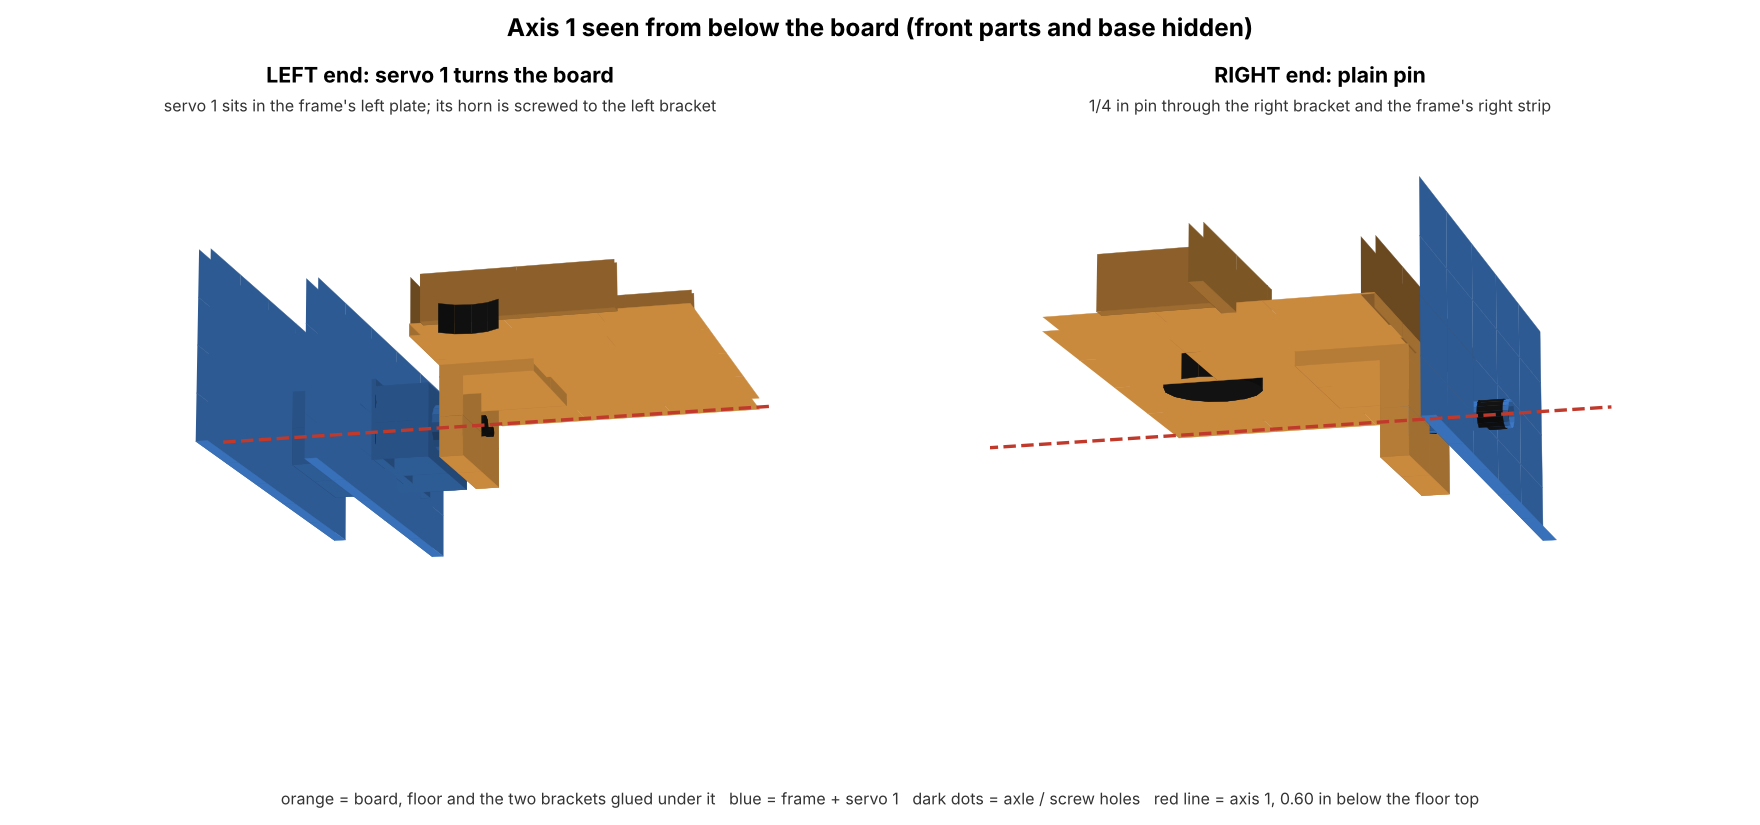
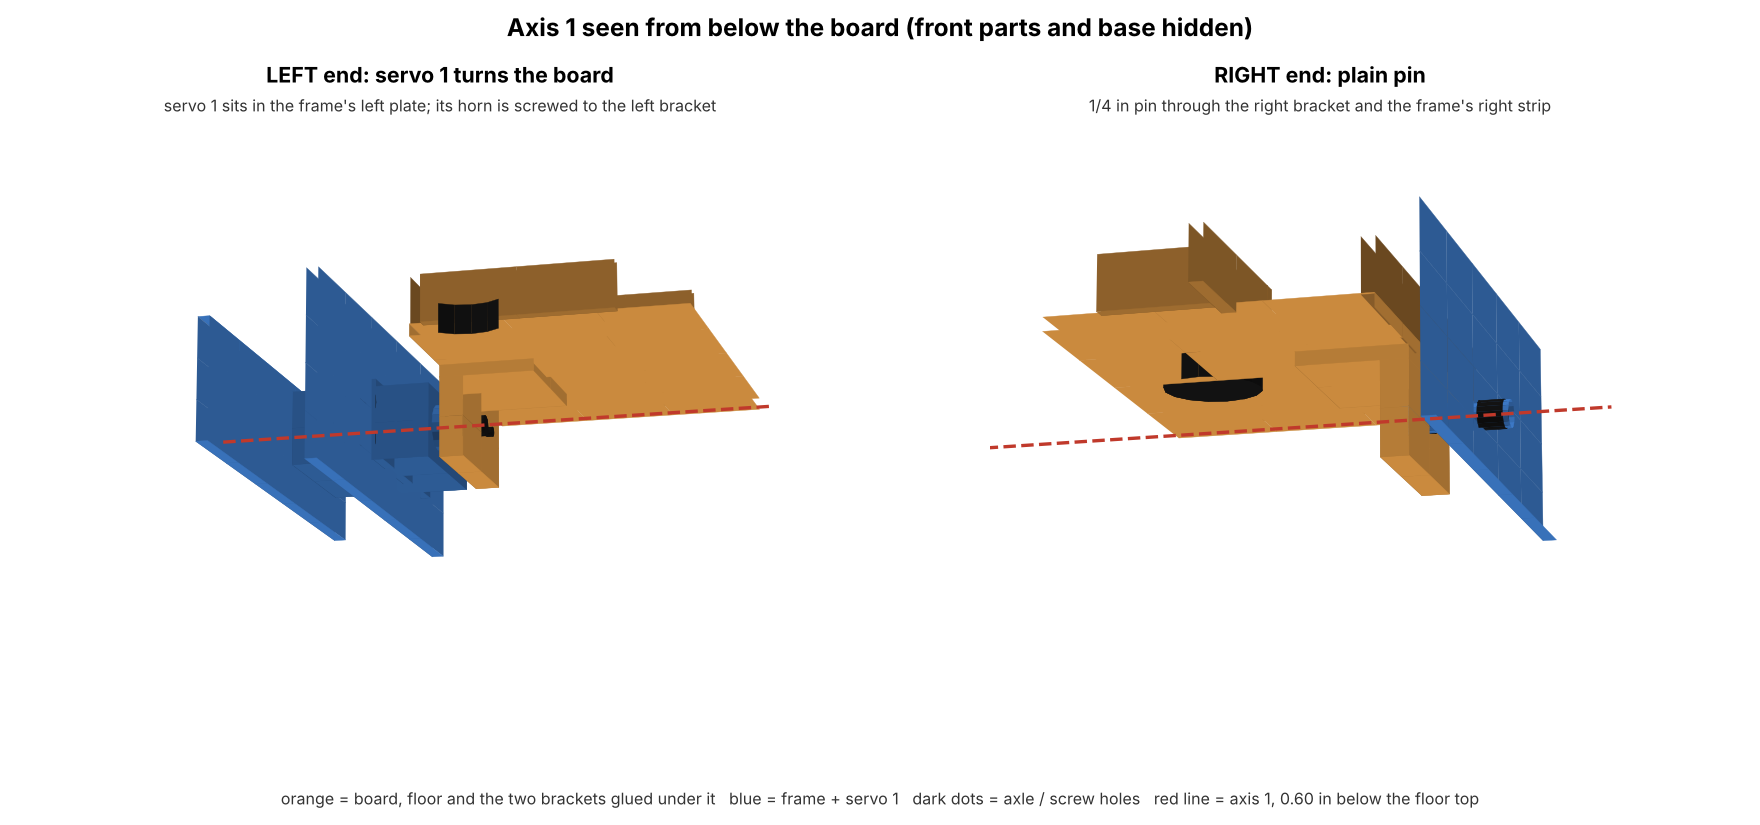
Frame level with the rim, low servo bay, AutoCAD tilt animation
The blue frame's top is now level with the board's 2 in rim; only the
servo bay on the left stays low, just above servo 1. Horns get their own
layers. The model script now checks how far the board can tip on axis 1
before touching the frame (16.3 deg, game uses 6) and writes
Labyrinth_animate.lsp: TILTDEMO rotates the board and frame in AutoCAD
servo by servo and returns to level.

Claude-Session: https://claude.ai/code/session_01KKucFUqdi832ws9qKueR3o

diff --git a/Labyrinth/make_autocad_script.py b/Labyrinth/make_autocad_script.py
@@ -48,8 +48,9 @@ HORN_SCREW_R, HORN_SCREW_DX, HORN_HUB_R = 0.05, 0.3, 0.1
 WINDOW_CLEAR = 0.01           # servo cutout is this much bigger all round
 
 FR_GAP = 0.5                  # gap between board and frame (3 sides)
-FR_Z0, FR_Z1 = -1.2, 1.8      # frame strips: 1/8 thick, 3 in tall
+FR_Z0, FR_Z1 = -1.2, ml.RIM_H # frame strips: top level with the board's rim
 BAY_CLEAR = 0.25              # servo bay: room behind servo 1's body
+BAY_Z1 = AXIS_Z + SERVO_W / 2 + 0.3   # servo bay walls stop just above it
 LP_Z0 = -1.45                 # the frame's left plate goes a bit lower
 # brackets under the floor for axis 1 (left: servo horn, right: pin)
 BRK_W, BRK_T, BRK_Z0 = 1.5, 0.25, -1.1   # drop plate: width, thick, bottom
@@ -122,7 +123,7 @@ class Model:
 
 
 # -------------------------------------------------------------- the servo
-def servo(m, to_world, layer, color):
+def servo(m, to_world, layer, color, horn_layer):
     """Servo body, mounting tabs, output boss and round horn."""
     x0, x1 = -SHAFT_FROM_END, SERVO_LEN - SHAFT_FROM_END
     xm, hy = (x0 + x1) / 2, SERVO_W / 2
@@ -131,7 +132,7 @@ def servo(m, to_world, layer, color):
     m.box(*to_world(xm - SERVO_TAB_SPAN / 2, -hy, TAB_Z),
           *to_world(xm + SERVO_TAB_SPAN / 2, hy, -SERVO_TAB_FROM_TOP))
     m.cyl(to_world(0, 0, 0), to_world(0, 0, BOSS_H), BOSS_R)
-    m.use("HORNS", 9)
+    m.use(horn_layer, 9)
     m.cyl(to_world(0, 0, BOSS_H), to_world(0, 0, BOSS_H + HORN_T), HORN_R)
 
 
@@ -226,10 +227,10 @@ def build():
                [lambda: m.cyl((fi1 - 0.05, C, AXIS_Z), (fx1 + 0.05, C, AXIS_Z),
                               PIN_HOLE_R)])
     m.cut_part("FRAME-FRONT", 150,
-               lambda: m.box(fx0, fy0, FR_Z0, fx1, fi0, FR_Z1),
+               lambda: m.box(lp0, fy0, FR_Z0, fx1, fi0, FR_Z1),
                horn_hole_cuts(m, "y", fy0 - 0.05, fi0 + 0.05, C))
     m.cut_part("FRAME-BACK", 150,
-               lambda: m.box(fx0, fi1, FR_Z0, fx1, fy1, FR_Z1),
+               lambda: m.box(lp0, fi1, FR_Z0, fx1, fy1, FR_Z1),
                [lambda: m.cyl((C, fi1 - 0.05, AXIS_Z), (C, fy1 + 0.05, AXIS_Z),
                               PIN_HOLE_R)])
 
@@ -247,8 +248,10 @@ def build():
 
     # ---- parts without holes
     m.lines += ["-LAYER", "T", "*", ""]
-    m.use("FRAME-BAY", 150)                        # outer wall of servo bay
-    m.box(bay0, fi0, FR_Z0, bay1, fi1, FR_Z1)
+    m.use("FRAME-BAY", 150)                        # low servo bay, left
+    m.box(bay0, fi0, FR_Z0, bay1, fi1, BAY_Z1)     # outer wall
+    m.box(bay0, fy0, FR_Z0, lp0, fi0, BAY_Z1)      # front side
+    m.box(bay0, fi1, FR_Z0, lp0, fy1, BAY_Z1)      # back side
     for name in ("RIM-FRONT", "RIM-BACK", "RIM-LEFT", "RIM-RIGHT"):
         m.use(name, 22)
         m.box(*rim[name][:2], 0, *rim[name][2:], ml.RIM_H)
@@ -269,8 +272,8 @@ def build():
     m.cyl((B - BRK_T, C, AXIS_Z), (fx1 + 0.1, C, AXIS_Z), PIN_R)
     m.use("PIN-AXIS2", 5)
     m.cyl((C, fi1, AXIS_Z), (C, pb1 + 0.1, AXIS_Z), PIN_R)
-    servo(m, s1, "SERVO-1", 240)
-    servo(m, s2, "SERVO-2", 240)
+    servo(m, s1, "SERVO-1", 240, "HORN-1")
+    servo(m, s2, "SERVO-2", 240, "HORN-2")
     bx0 = fx0 - 0.5
     by0 = s2(0, 0, -SERVO_BODY_H)[1] - 0.5
     bx1, by1 = fx1 + 1.0, pb1 + 0.5
@@ -294,7 +297,8 @@ def build():
             m.text(f, mx + 0.3 * ux, my + 0.3 * uy, 0.002, 0.26)
     m.finish()
     info = dict(base=(bx1 - bx0, by1 - by0), left_plate=(lp0, lp1),
-                front_post=(pf0, pf1), frame=(fx0, fx1, fy0, fy1))
+                front_post=(pf0, pf1), frame=(fx0, fx1, fy0, fy1),
+                frame_inside=(fi0, fi1))
     return m, info
 
 
@@ -312,7 +316,7 @@ def check(m, info):
     lo, hi = first(m, "SERVO-2", "box")
     pf0, pf1 = info["front_post"]
     assert lo[1] < pf0 and hi[1] > pf1, "servo 2 must pass the front post"
-    horns = [s[2] for s in m.solids if s[0] == "HORNS"]
+    horns = [first(m, "HORN-1", "cyl"), first(m, "HORN-2", "cyl")]
     assert abs(max(horns[0][0][0], horns[0][1][0]) - 0.0) < 1e-6, \
         "servo 1 horn must sit on the left bracket"
     assert abs(max(horns[1][0][1], horns[1][1][1]) - FR_FRONT_OUT) < 1e-6, \
@@ -328,9 +332,122 @@ def check(m, info):
           % (fx1 - fx0, fy1 - fy0, *info["base"]))
 
 
+BOARD_LAYERS = ("FLOOR", "RIM-FRONT", "RIM-BACK", "RIM-LEFT", "RIM-RIGHT",
+                "WALLS", "BRACKET-LEFT", "BRACKET-RIGHT", "TRAPDOOR-FLAP",
+                "TRAPDOOR-SERVO", "BALL", "HORN-1")
+FRAME_LAYERS = ("FRAME-LEFT", "FRAME-RIGHT", "FRAME-FRONT", "FRAME-BACK",
+                "FRAME-BAY", "SERVO-1", "PIN-AXIS1", "HORN-2")
+
+
+def corners(kind, d):
+    if kind == "box":
+        (x0, y0, z0), (x1, y1, z1) = d
+        return [(x, y, z) for x in (x0, x1) for y in (y0, y1)
+                for z in (z0, z1)]
+    if kind == "cyl":
+        (p0, p1, r) = d
+        return [(p[0] + dx, p[1] + dy, p[2] + dz) for p in (p0, p1)
+                for dx in (-r, r) for dy in (-r, r) for dz in (-r, r)]
+    (c, r) = d
+    return [(c[0] + dx, c[1] + dy, c[2] + dz) for dx in (-r, r)
+            for dy in (-r, r) for dz in (-r, r)]
+
+
+def max_tilt(m, info):
+    """Largest axis-1 tilt (degrees) before the board touches the frame.
+    Axis 2 never moves the board against the frame - they turn together."""
+    import math
+    fi0, fi1 = info["frame_inside"]
+    pts = [p for layer, kind, d in m.solids if layer in BOARD_LAYERS
+           for p in corners(kind, d)]
+    a = 0.0
+    while a < 30:
+        a += 0.1
+        for sgn in (1, -1):
+            r = math.radians(a * sgn)
+            for x, y, z in pts:
+                yy = C + (y - C) * math.cos(r) - (z - AXIS_Z) * math.sin(r)
+                zz = AXIS_Z + (y - C) * math.sin(r) + (z - AXIS_Z) * math.cos(r)
+                if FR_Z0 <= zz <= FR_Z1 and not fi0 < yy < fi1:
+                    return a - 0.1
+    return a
+
+
+def write_lsp(path):
+    """AutoLISP: TILTDEMO swings the model in AutoCAD, servo by servo."""
+    lsp = r""";; The Labyrinth - tilt animation for the 3D model built by Labyrinth_3D.scr
+;; Load:  Manage tab > Applications > Load Application (APPLOAD), pick this
+;;        file, Load (or drag the file onto the drawing).
+;; Run:   type TILTDEMO   (TILTSPEED changes how fast it moves)
+;; The model always ends back level.
+
+(setq lab:C %(C)s  lab:AZ %(AZ)s  lab:B %(B)s  lab:tilt %(TILT)s  lab:ms 40)
+
+(defun lab:board () (ssget "_X" '((8 . "%(BOARD)s"))))
+(defun lab:frame () (ssget "_X" '((8 . "%(FRAME)s"))))
+
+;; axis 1 runs left-right under the board; it rides on the frame, so after
+;; the frame has turned b degrees on axis 2 its end points move too
+(defun lab:axis1 (b / r)
+  (setq r (* pi (/ b 180.0)))
+  (list (list (+ lab:C (* (- 0 lab:C) (cos r))) lab:C
+              (- lab:AZ (* (- 0 lab:C) (sin r))))
+        (list (+ lab:C (* (- lab:B lab:C) (cos r))) lab:C
+              (- lab:AZ (* (- lab:B lab:C) (sin r))))))
+
+(defun lab:turn (sets p1 p2 ang)
+  (command "_.ROTATE3D")
+  (foreach s sets (if s (command s)))
+  (command "" p1 p2 ang "_.DELAY" lab:ms))
+
+;; swing one axis 0 -> +tilt -> -tilt -> 0, one degree per step
+(defun lab:swing (sets p1 p2)
+  (repeat (fix lab:tilt) (lab:turn sets p1 p2 1))
+  (repeat (fix (* 2 lab:tilt)) (lab:turn sets p1 p2 -1))
+  (repeat (fix lab:tilt) (lab:turn sets p1 p2 1)))
+
+(defun c:TILTDEMO (/ echo snap board frame a2a a2b ax1)
+  (setq echo (getvar "CMDECHO") snap (getvar "OSMODE"))
+  (setvar "CMDECHO" 0) (setvar "OSMODE" 0)   ; snaps would move the axis points
+  (setq board (lab:board) frame (lab:frame))
+  (setq a2a (list lab:C 0.0 lab:AZ) a2b (list lab:C 1.0 lab:AZ))
+  (princ "\n1) servo 1 only: the board tips front/back, the frame stays still")
+  (setq ax1 (lab:axis1 0))
+  (lab:swing (list board) (car ax1) (cadr ax1))
+  (princ "\n2) servo 2 only: the frame tips left/right and carries the board")
+  (lab:swing (list board frame) a2a a2b)
+  (princ "\n3) both: frame tipped, then the board tips inside it")
+  (repeat (fix lab:tilt) (lab:turn (list board frame) a2a a2b 1))
+  (setq ax1 (lab:axis1 lab:tilt))
+  (lab:swing (list board) (car ax1) (cadr ax1))
+  (repeat (fix lab:tilt) (lab:turn (list board frame) a2a a2b -1))
+  (setvar "CMDECHO" echo) (setvar "OSMODE" snap)
+  (princ "\nDone - back to level.")
+  (princ))
+
+(defun c:TILTSPEED (/ v)
+  (setq v (getint (strcat "\nPause per step in ms <" (itoa lab:ms) ">: ")))
+  (if v (setq lab:ms v))
+  (princ))
+
+(princ "\nLabyrinth animation loaded - type TILTDEMO.")
+(princ)
+""" % dict(C=n(C), AZ=n(AXIS_Z), B=n(B), TILT="6",
+           BOARD=",".join(BOARD_LAYERS + ("LABELS",)),
+           FRAME=",".join(FRAME_LAYERS))
+    with open(path, "w", newline="\r\n") as fh:
+        fh.write(lsp)
+    print("wrote", path)
+
+
 def main():
     m, info = build()
     check(m, info)
+    tilt = max_tilt(m, info)
+    assert tilt >= 8.0, "board hits the frame at %.1f deg" % tilt
+    print("board can tip %.1f deg on axis 1 before touching the frame "
+          "(game uses 6)" % tilt)
+    write_lsp(os.path.join(OUT_DIR, "Labyrinth_animate.lsp"))
     path = os.path.join(OUT_DIR, "Labyrinth_3D.scr")
     with open(path, "w", newline="\r\n") as fh:
         fh.write("\n".join(m.lines) + "\n")

diff --git a/Labyrinth/make_axis_views.py b/Labyrinth/make_axis_views.py
@@ -34,6 +34,7 @@ REAL_TILT = 6.0
 FIXED = {"BASE", "POST-FRONT", "POST-BACK", "SERVO-2", "CONTROLS",
          "JOYSTICK", "PIN-AXIS2"}
 FRAME = {"FRAME-LEFT", "FRAME-RIGHT", "FRAME-FRONT", "FRAME-BACK", "FRAME-BAY",
+         "HORN-2",
          "SERVO-1", "PIN-AXIS1"}
 GROUP_COLOR = {"fixed": "#8f9399", "frame": "#3f7fd0", "board": "#e39b45"}
 SHADE = {"WALLS": 0.78, "RIM-FRONT": 0.66, "RIM-BACK": 0.66,

diff --git a/Labyrinth/README.md b/Labyrinth/README.md
@@ -12,6 +12,7 @@ re-run `python3 make_labyrinth.py`.
 | `Labyrinth_board_top.png` | Top view of the finished board (slides, report) |
 | `Labyrinth_preview.png` | Picture of the DXF: sheet 1 + sheet 2 |
 | `Labyrinth_3D.scr` | AutoCAD script: in a new drawing type `SCRIPT` and pick it to build the whole game in 3D: board, frame, axis holes, servo cutouts, posts, base (`make_autocad_script.py` rebuilds it) |
+| `Labyrinth_animate.lsp` | AutoCAD animation: load it with `APPLOAD` in the drawing built by `Labyrinth_3D.scr`, then type `TILTDEMO` |
 | `Labyrinth_axis1_bracket.png` | Close-up from below of the axis-1 brackets under the board (servo 1 on the left, pin on the right) |
 | `Labyrinth_axes_explained.png` | Four pictures of how the two axes move, coloured by what moves with what (`make_axis_views.py` rebuilds it from the 3D model) |
 | `Labyrinth_two_axis.mp4` | 20 s video of the same (`make_axis_views.py --video`) |
@@ -27,7 +28,7 @@ re-run `python3 make_labyrinth.py`.
 | Floor plate | 11.5 × 11.5 in | The laser bed is 12 × 16 in and the guide asks for a ¼ in border, so 11.5 in is the biggest square that fits. Change `BOARD` if the frame has to fit inside 12 × 12 |
 | Ball | ⅝ in steel ball bearing | Heavy, so it rolls smoothly and the same way every time. 3D-printed balls are light and slightly rough |
 | Grid | 9 × 9 cells, 1.264 in apart | Corridor is 1.139 in between walls, about 1.8 balls wide |
-| Walls / rim | ⅛ in ply, 2 in tall / 2 in tall (blue frame: 3 in) | Team choice. The ball can never hop a wall. Tall walls hide the ball from low angles, so check the view in the cardboard prototype |
+| Walls / rim | ⅛ in ply, 2 in tall / 2 in tall (blue frame level with the rim, servo bay lower) | Team choice. The ball can never hop a wall. Tall walls hide the ball from low angles, so check the view in the cardboard prototype |
 | **5 coin** hole | ¾ in drill | Smallest, at the far corner (back-right) |
 | **3 coin** hole | ⅞ in drill | Side pocket just before the 5 |
 | **1 coin** hole | 1 in drill | Side pocket before that, easiest to sink |
